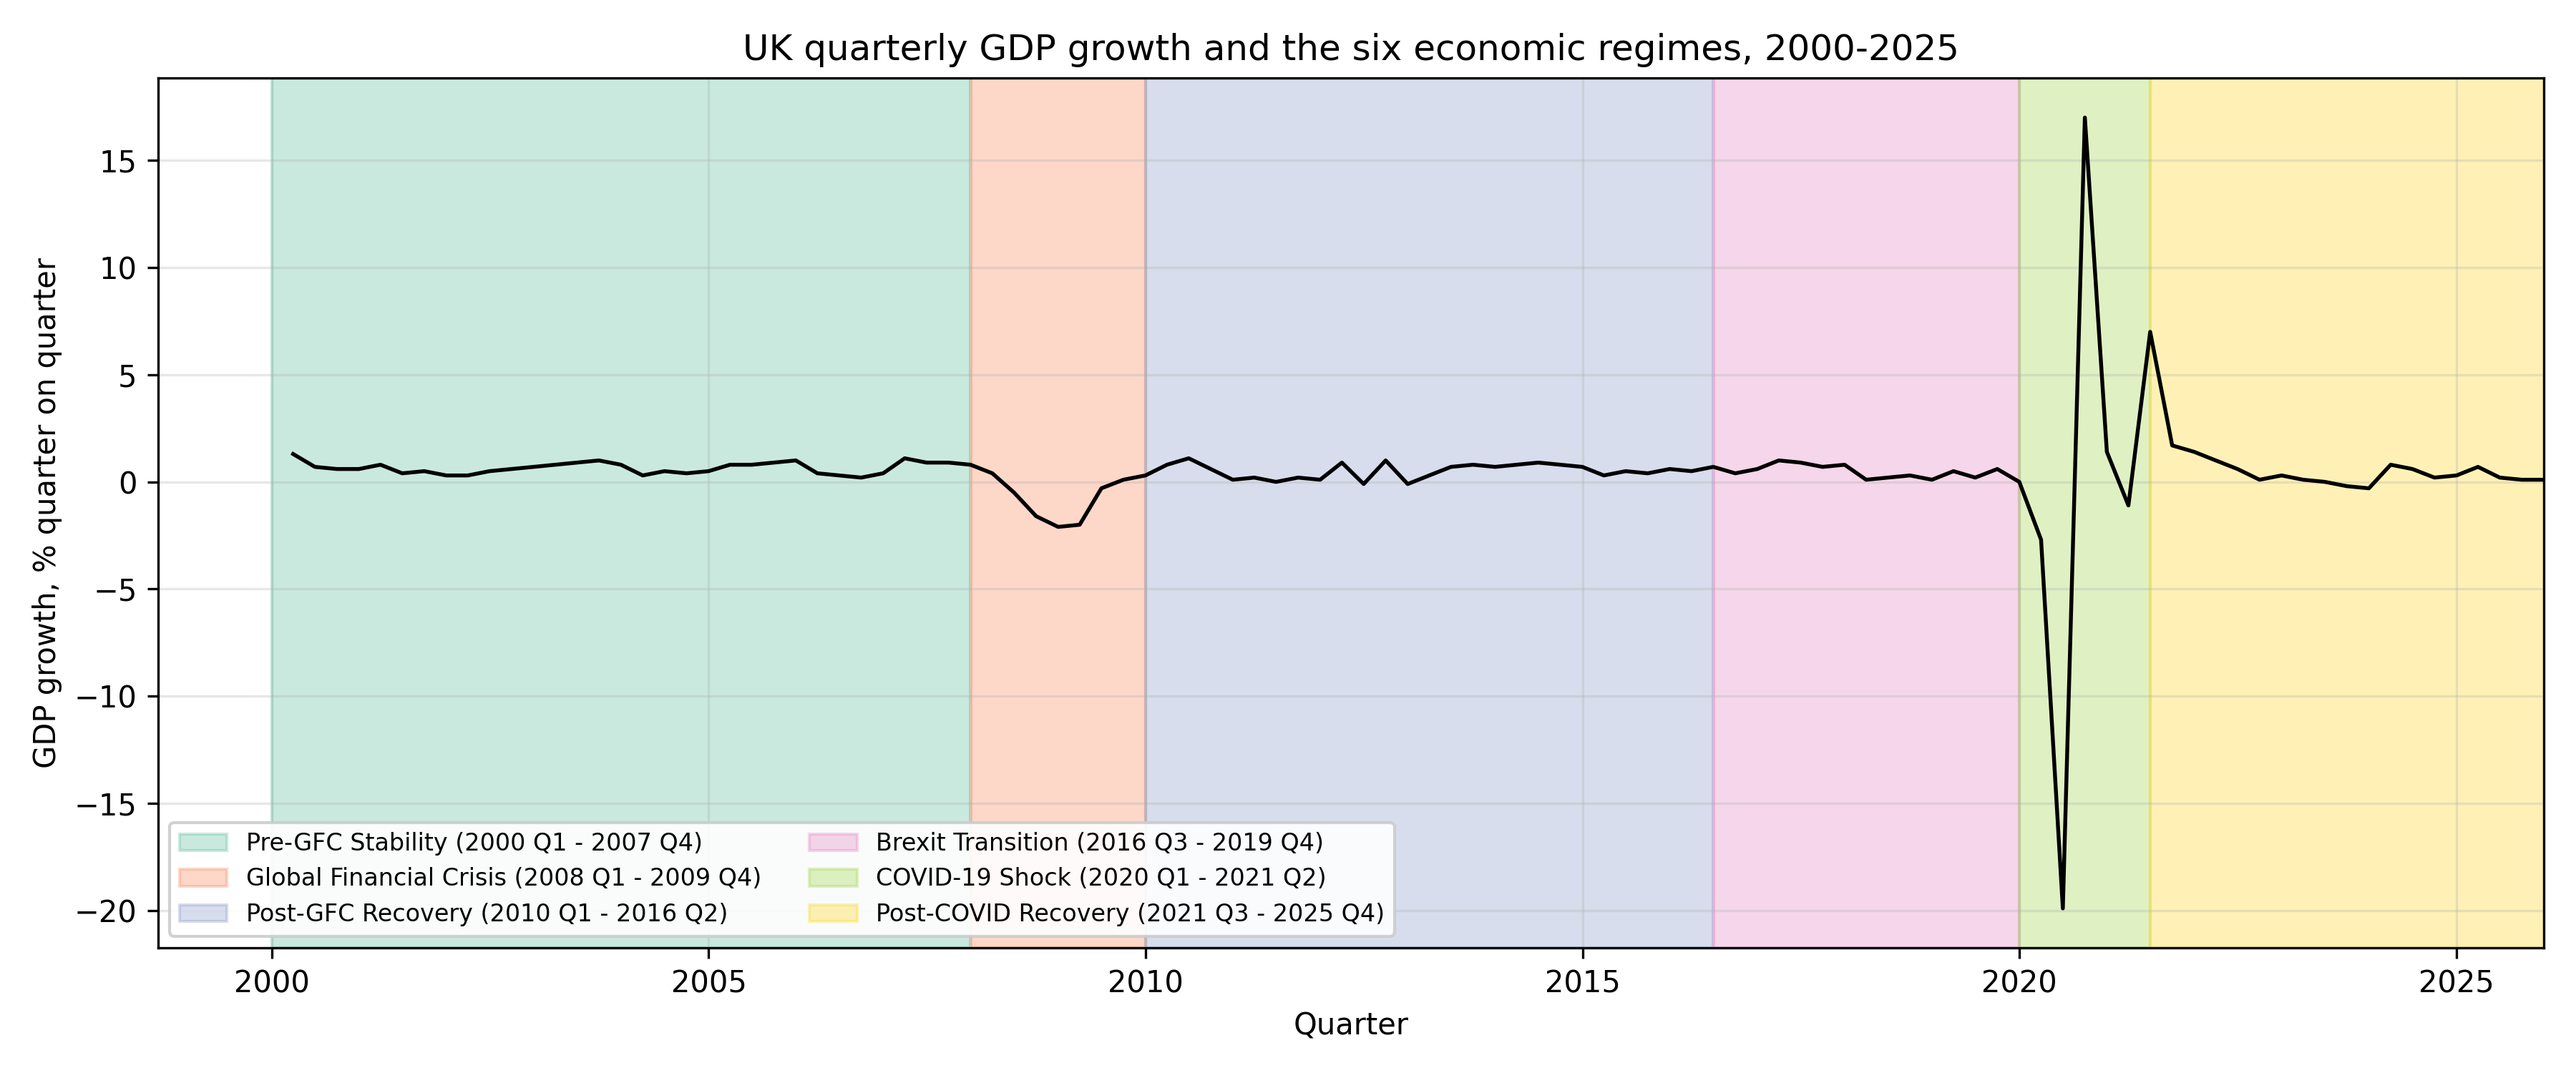
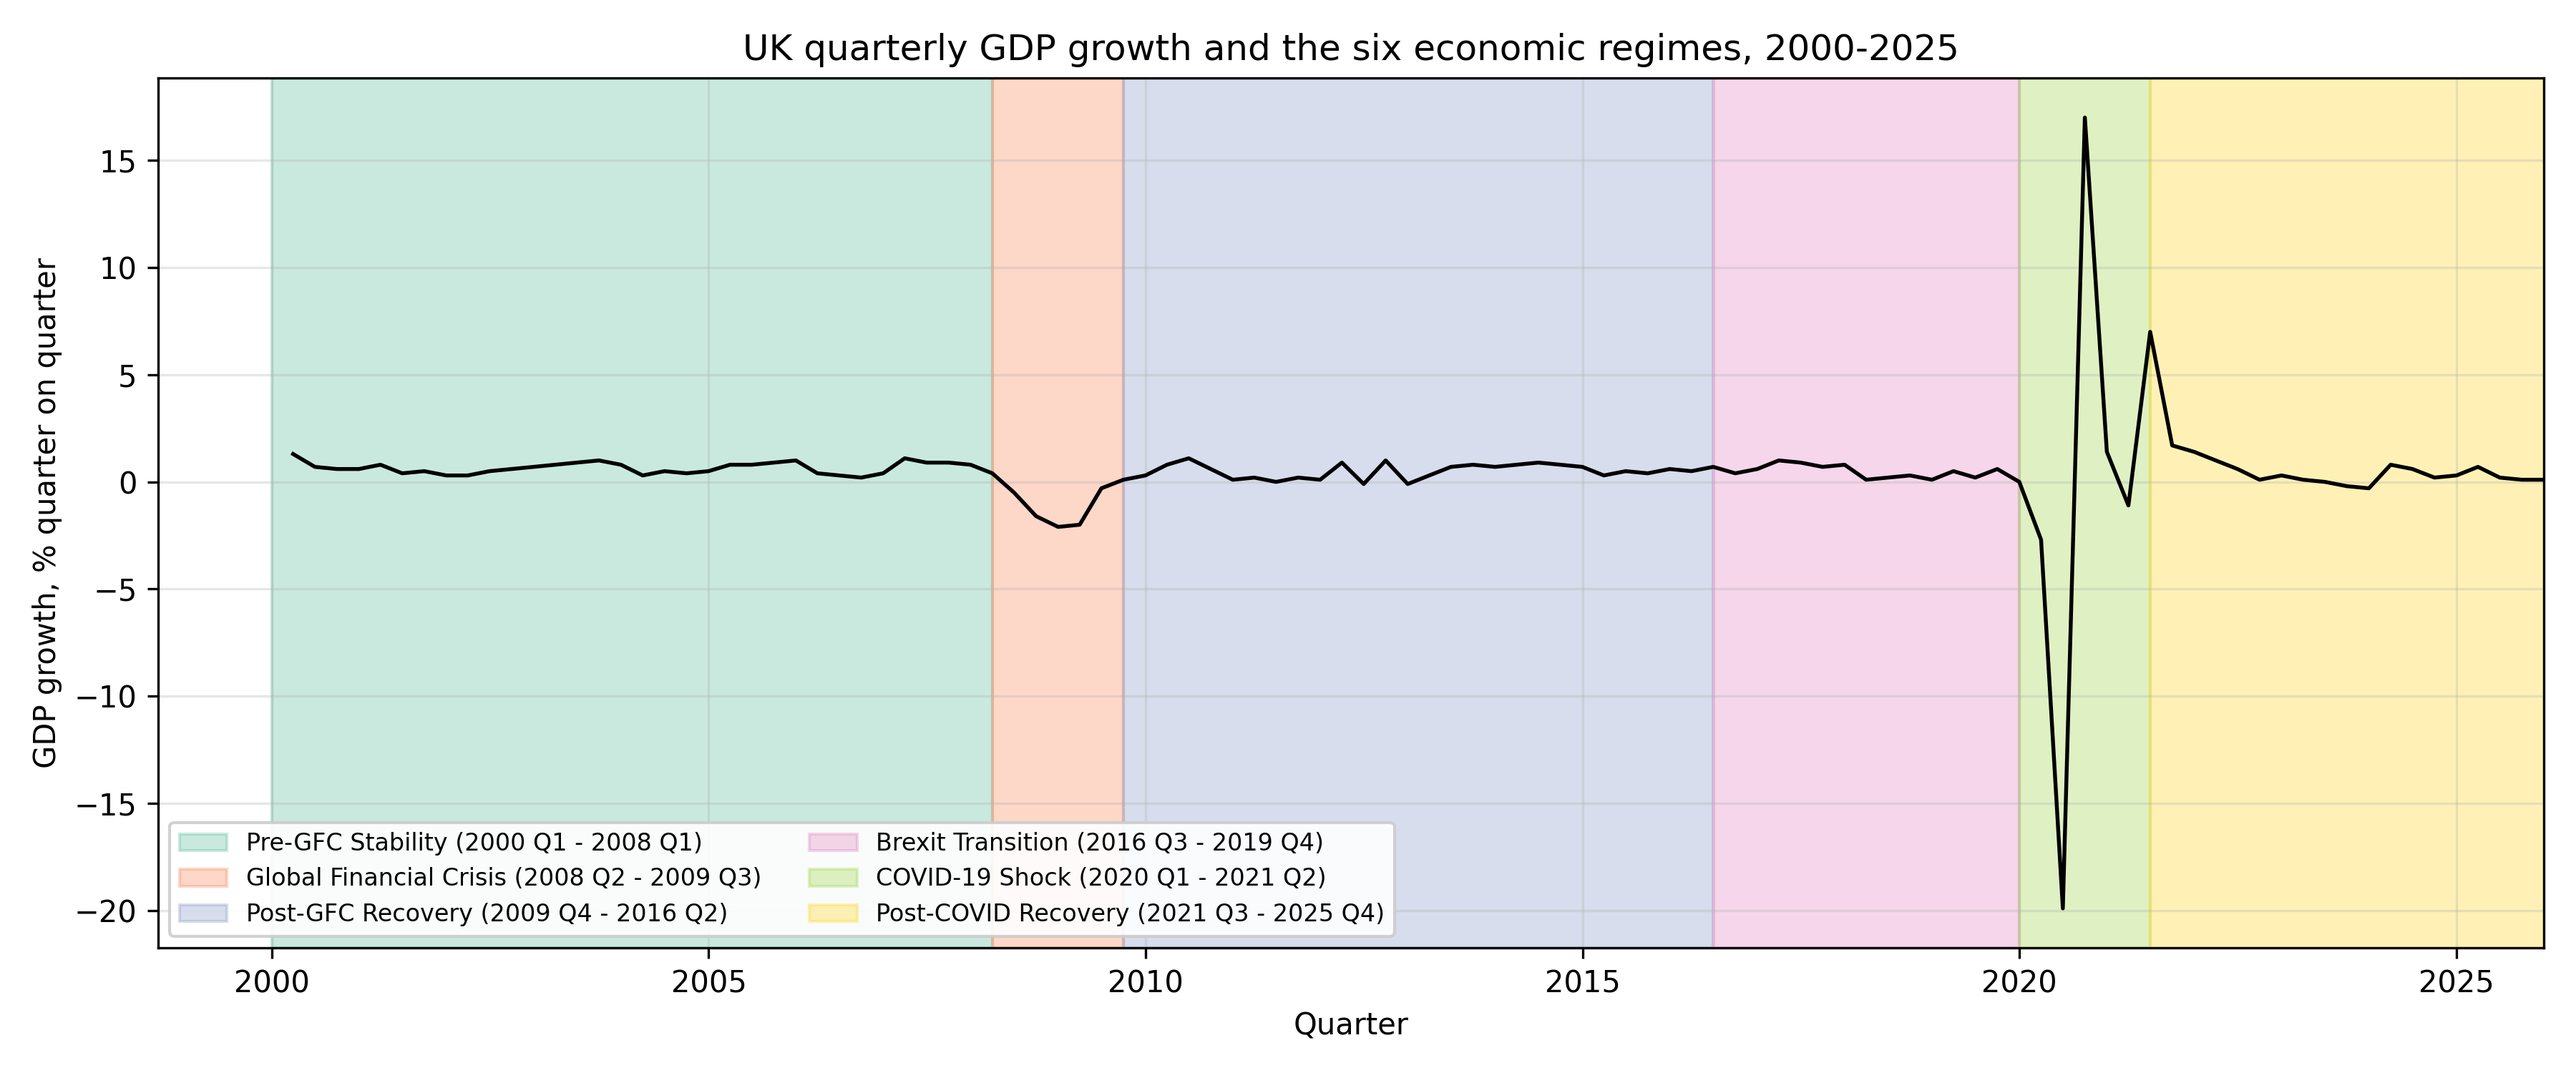
Apply regime boundary dating rule: GFC to 2008 Q2, Post-GFC Recovery to 2009 Q4
Adopts a single boundary rule (a regime begins in the first quarter substantively in
the new state) following supervisor guidance to date regimes by a consistent rule
rather than defend one fixed set of dates. Moves the GFC start to 2008 Q2 (first
contraction quarter) and Post-GFC Recovery to 2009 Q4 (recession exit); the other
boundaries already complied. Regenerates the regime column and the regime figure.
Records the rule and two acknowledged judgement calls in the decision log. Rewords
the break-test language from confirming boundaries to finding evidence of mean shifts
(Chow, Bai-Perron) and volatility shifts (ICSS).

Changed region(s): [[0.4356, 0.0613, 0.4667, 0.7667], [0.3733, 0.0613, 0.4044, 0.7667], [0.2489, 0.7667, 0.28, 0.7973]]

diff --git a/report/decision-log.md b/report/decision-log.md
@@ -205,7 +205,7 @@ Options considered:
 
   C. Both Chow and Bai-Perron
 Decision: C. Chow is applied at each of the five hypothesised boundaries; Bai-Perron is run as an unsupervised sensitivity sweep on the same series.
-Rationale: The two methods answer different questions. Chow asks whether the regression differs on either side of a specific date, which is the natural test for literature-motivated boundaries. Bai-Perron asks where the data themselves would place breaks if no dates were imposed, providing independent statistical validation. Running both makes agreement informative and disagreement transparent. The cost of running both is small (two short scripts; ruptures was already a planned dependency).
+Rationale: The two methods answer different questions. Chow asks whether the regression differs on either side of a specific date, which is the natural test for literature-motivated boundaries. Bai-Perron asks where the data themselves would place breaks if no dates were imposed, providing independent statistical evidence. Running both makes agreement informative and disagreement transparent. The cost of running both is small (two short scripts; ruptures was already a planned dependency).
 
 ---
 
@@ -219,7 +219,7 @@ Options considered:
 
   C. Both literature and statistical tests, with explicit convergence framing
 Decision: C
-Rationale: Literature alone is interpretable but offers no internal validation. Statistics alone is methodologically pure but loses the economic narrative (a break at 2008 Q3 is harder to defend than the onset of the global financial crisis). Combining the two converts methodological agreement into mutually reinforcing evidence and converts disagreement into a question the methodology chapter must address openly rather than hide. This was the supervisor's explicit recommendation in Meeting 1.
+Rationale: Literature alone is interpretable but offers no independent statistical evidence. Statistics alone is methodologically pure but loses the economic narrative (a break at 2008 Q3 is harder to defend than the onset of the global financial crisis). Combining the two converts methodological agreement into mutually reinforcing evidence and converts disagreement into a question the methodology chapter must address openly rather than hide. This was the supervisor's explicit recommendation in Meeting 1.
 
 ---
 
@@ -259,6 +259,28 @@ Options considered:
 
   C. Add a variance-targeted change-point test as a third instrument, on the grounds that the GFC is a volatility event rather than a level event
 Decision: C. The ICSS test (Inclan-Tiao 1994) is now a standard part of the structural-breaks methodology alongside Chow and Bai-Perron. It is implemented in src/regimes/volatility.py and orchestrated by src/regimes/run_analysis.py; results are written to results/regimes/icss_results.json with a GFC-validation block.
-Rationale: Chow tests differences in regression coefficients (mean structure) and Bai-Perron with the rbf kernel is in principle sensitive to changes in distribution, but at standard penalties on a 104-quarter sample it returned no breaks. Neither instrument is calibrated to detect a pure variance shift, which is what the 2008 crisis was for UK GDP. ICSS targets the second moment directly via CUSUM-of-squares applied recursively. On the live series it detects two variance breaks inside the 2008 Q1 to 2009 Q4 window (2008-06-30 with D = 2.993; 2009-09-30 with D = 3.319), confirming that a structural break in volatility is present in the GFC regime as currently defined. The 2008 boundary is therefore validated by the methodology.
+Rationale: Chow tests differences in regression coefficients (mean structure) and Bai-Perron with the rbf kernel is in principle sensitive to changes in distribution, but at standard penalties on a 104-quarter sample it returned no breaks. Neither instrument is calibrated to detect a pure variance shift, which is what the 2008 crisis was for UK GDP. ICSS targets the second moment directly via CUSUM-of-squares applied recursively. On the live series it detects two variance breaks inside the 2008 Q1 to 2009 Q4 window (2008-06-30 with D = 2.993; 2009-09-30 with D = 3.319), providing evidence of a volatility shift inside the GFC regime as currently defined. Chow and Bai-Perron find evidence of mean shifts; ICSS finds evidence of volatility shifts. These are different kinds of structural change, and a test finding evidence of a shift does not by itself confirm a regime boundary.
 
-Open item (separate from the test decision above): the exact GFC and Post-GFC Recovery boundary dates are still under discussion with the supervisor. Specifically, the GFC start date may move from 2008 Q1 (current config) to 2008 Q2 (closer to the first ICSS variance break at 2008-06-30), and the Post-GFC Recovery start date may move from 2010 Q1 (current config) to 2009 Q4 (closer to the second ICSS variance break at 2009-09-30). No boundary in config/regimes.yaml has been moved. Any change to the boundary dates will be recorded as a separate decision-log entry once the supervisor has confirmed.
+Open item (separate from the test decision above): the exact GFC and Post-GFC Recovery boundary dates are still under discussion with the supervisor. Specifically, the GFC start date may move from 2008 Q1 (current config) to 2008 Q2 (closer to the first ICSS variance break at 2008-06-30), and the Post-GFC Recovery start date may move from 2010 Q1 (current config) to 2009 Q4 (closer to the second ICSS variance break at 2009-09-30). No boundary in config/regimes.yaml has been moved. Any change to the boundary dates will be recorded as a separate decision-log entry once the supervisor has confirmed. Resolved on 26-06-2026 by the Regime boundary dating rule entry.
+
+---
+
+## Decision: Regime boundary dating rule
+Date: 26-06-2026
+Question: How should the regime boundary dates be chosen in a consistent, defensible way, after the supervisor advised choosing boundaries by a clear rule rather than defending one set of dates as the single correct answer?
+Options considered:
+  A. Peak-based dating (a regime starts at the cyclical peak). Rejected, because it would force the COVID boundary back to 2019 Q4 to stay consistent, which is not sensible.
+
+  B. Ad hoc dating per regime (choose each boundary individually). Rejected, because it is inconsistent and hard to defend in the viva.
+
+  C. A single rule applied across all regimes: a regime begins in the first quarter that belongs substantively to the new state. For a crisis, the first quarter of GDP contraction; for a recovery, the first quarter of sustained renewed growth; for Brexit, the first full quarter after the referendum; the baseline starts at the data window. Chosen.
+Decision: C. This moved two boundaries to comply with the rule:
+  - GFC start from 2008 Q1 to 2008 Q2 (the first quarter GDP actually contracted)
+  - Post-GFC Recovery start from 2010 Q1 to 2009 Q4 (the first quarter growth resumed)
+
+  The other three internal boundaries (Brexit 2016 Q3, COVID 2020 Q1, Post-COVID 2021 Q3) and the 2000 Q1 baseline start already complied and were unchanged. New per-regime quarter counts: 33, 6, 27, 14, 6, 18, summing to 104.
+Rationale:
+  - The rule makes the GFC and COVID boundaries consistent with each other: both are now dated from the first contraction quarter. Under the old dates the GFC was peak-dated while COVID was contraction-dated, which was the inconsistency the rule removes.
+  - Both moved dates have independent corroboration beyond the rule. 2008 Q2 is the technical recession start and is where the ICSS variance break falls. 2009 Q4 is when the UK officially exited recession and is close to the ICSS variance-down break at 2009 Q3.
+  - Two judgement calls are acknowledged openly. First, the Pre-GFC Stability label now covers 2008 Q1; this is defensible because regimes are defined by GDP behaviour and GDP was still growing in 2008 Q1, even though the financial sector was already under stress. Second, the Post-COVID Recovery start at 2021 Q3 reflects sustained recovery; a brief rebound in 2020 Q3 was reversed by renewed restrictions, so the literal first quarter of renewed growth is not the right marker.
+  - Alternative boundary dates remain plausible and this will be stated in the writeup. A contained sensitivity check on one alternative date set is planned if time allows, to show whether the headline results are robust to the choice.

diff --git a/src/regimes/README.md b/src/regimes/README.md
@@ -76,4 +76,4 @@ The test itself is a standard part of the methodology. The exact GFC and Post-GF
 
 ## Why this package exists
 
-The dissertation's novel contribution is regime-aware SHAP analysis. That analysis only makes sense if the regime definitions are defensible. This package produces the evidence base for that defence: literature-motivated boundaries from `config/regimes.yaml`, statistical validation from the three break tests (Chow, Bai-Perron, ICSS), and a clean figure for the methodology chapter. Methodological decisions made here are recorded in `report/decision-log.md`.
+The dissertation's novel contribution is regime-aware SHAP analysis. That analysis only makes sense if the regime definitions are defensible. This package produces the evidence base for that defence: literature-motivated boundaries from `config/regimes.yaml`, statistical evidence from the three break tests (Chow, Bai-Perron, ICSS), and a clean figure for the methodology chapter. Methodological decisions made here are recorded in `report/decision-log.md`.
